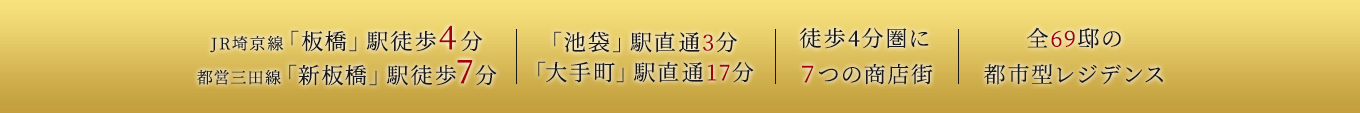
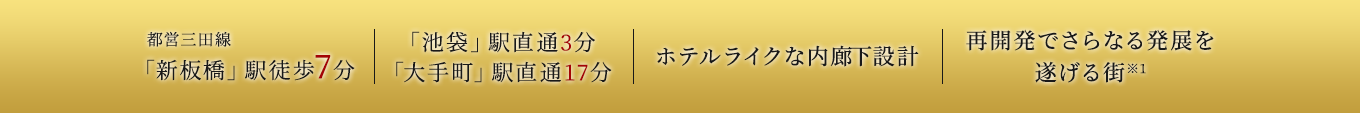
fix: USP更新・注釈追加[lp]

Changed region(s): [[0.0926, 0.2124, 0.8956, 0.7699]]

diff --git a/index.html b/index.html
@@ -945,6 +945,7 @@
                 <div class="m-footerNote">
                   <p class="m-footerNote__txt inviewFadeIn">
                     ※「モデルルーム」とは、間取りや仕様・設備などをご案内する施設全般のことで、それらの一部のみ展示している「ギャラリー」・「インフォメーションセンター」、「サンプルルーム」なども含みます。<br>
+                    ※1．板橋駅西口地区第一種市街地再開発事業（2028年度完成予定／出典：板橋区ホームページ/2024年3月現在）、板橋駅板橋口地区第一種市街地再開発事業（2027年6月竣工予定／出典：板橋区ホームページ/2024年3月現在）事業概要につきましては板橋区が発表した情報に基づいています。また、計画内容は今後変更となる場合があります。（出典：板橋区ホームページ/2024年3月現在）<br>
                     ※掲載の完成予想CGは計画段階の設計図書を基に描き起こしたもので、実際とは異なります。 雨樋、エアコン室外機、給湯器、 フェンス、 給気口 ベントキャップ等省略、 または再現されていない設備機器等がございます。<br>
                     植栽は特定の季節やご入居時期の状態を想定して描かれたものではございません。敷地周辺の電柱、標識、ガードレール等については省略しております。<br>
                     ※電車による所要時間は通勤時のもので乗り換え・待ち時間を含みます。通勤時は7:30~9:00に目的地へ到着する電車を調査したもので時間帯により異なります。（Yahoo! JAPAN 路線検索調べ※2023年11月現在） JR「板橋」駅より／「東京」駅へは、JR埼京線利用、「池袋」駅より東京メトロ丸ノ内線利用。 都営三田線「新板橋」駅より／「秋葉原」駅へは、都営三田線利用、「巣鴨」駅よりJR山手線利用。「銀座」駅へは、都営三田線利用、「日比谷」駅より東京メトロ日比谷線利用。<br>
@@ -958,31 +959,30 @@
                     ※掲載の写真は同種サンプルを撮影したもので、実際とは多少異なる場合があります。印刷の都合により若干色合いが異なる場合があります。<br>
                     ※掲載の概念図は形状等をイラスト化したもので実際とは異なる場合があります。<br>
                     <br>
-                    ■Ea1タイプ（206号室・1LDK・36.98㎡）返済例概要<br>
-                    ●販売価格：5,088万円●頭金：588万円●借入金額：4,500万円（内ボーナス支払分：670万円）●月々の返済額(年12回)：95,825円●ボーナス時加算額(年2回)：100,635円●取扱金融機関：住信SBIネット銀行●金利・種別：年0.285%(変動金利)・元利均等返済 ●返済期間：35年<br>
+■Ea1タイプ（206号室・1LDK・36.98㎡）返済例概要 <br>
+●販売金額：5,088万円   ●頭金：588万円  ●借入金額：4,500万円(内ボーナス支払分 670万円) <br>
+●月々の返済額(年12回)：98,324円 ●ボーナス時加算額(年2回)：103,289円 ●取扱金融機関：住信SBIネット銀行 <br>
+●金利プラン：変動・0.435％（弊社提携ローンにてお申し込みの場合） ●返済期間：35年 <br>
+ <br>
+■Ba1タイプ（202号室・2LDK・56.94㎡）返済例概要 <br>
+●販売金額：8,788万円   ●頭金：878万円  ●借入金額：7,910万円(内ボーナス支払分 2,460万円) <br>
+●月々の返済額(年12回)：139,914円 ●ボーナス時加算額(年2回)：379,240円 ●取扱金融機関：住信SBIネット銀行 <br>
+●金利プラン：変動・0.435％（弊社提携ローンにてお申し込みの場合） ●返済期間：35年 <br>
+※2024年11月現在の金利で算出しております。 <br>
+※実際の金利はご融資が実行された時点のものが適応となり、今後の金利変動によっては記載の金利・ <br>
+返済概要と異なる場合がございます。※上記支払い例では、繰り上げ返済などは考慮しておりません。 <br>
+ <br>
+■住宅ローン概要●取扱金融機関：住信SBIネット銀行　●融資限度額：500万円以上2億円以下（10万円単位）●利率：変動金利年0.435％（期間35年） <br>
+（借入期間に応じて適応金利が異なります。弊社提携ローンにてお申し込みの場合、基準金利3.025％より最大2.59％優遇）　●返済期間：1年以上50年以内 <br>
+●返済方法：元利均等返済・変動金利タイプ（ボーナス払い併用可）●事務取扱手数料：借入金額×2.2％（税込） <br>
+※お申込に際しては所定の審査があります。審査の結果によってはご希望に添いかねる場合がありますのでご了承ください。 <br>
+※物件引渡時から引き渡し後に月額で発生する諸費用・管理費・修繕積立金・インターネット使用料等は含まれて <br>
+おりません。所有権者様に別途負担が発生します。 <br>
+※他の支払返済のプランもございます。詳しくは、物件販売係員までお尋ねください。 <br>
                     <br>
-                    ■Ba1タイプ（202号室・2LDK・56.94㎡）返済例概要<br>
-                    ●販売価格：8,788万円●頭金：878万円●借入金額：7,910万円（内ボーナス支払分：2,450万円）●月々の返済額(年12回)：136,606円●ボーナス時加算額(年2回)：367,995円●取扱金融機関：住信SBIネット銀行●金利・種別：年 0.285%(変動金利)・元利均等返済 ●返済期間：35年<br>
-                    <br>
-                    ※返済額は概算ですので実際の金額と異なる場合があります。<br>
-                    ※管理費等諸費用は返済額に含まれておりません。<br>
-                    ※掲載の内容は2024年9月現在のものです。<br>
-                    <br>
-                    ■住宅ローン概要<br>
-                    ●取扱金融機関：住信SBIネット銀行●融資限度額：30万円以上、1億円以内(10万円単位)●利率：変動金利年0.285%(店頭金利2.875%より最大2.59%優遇)●返済期間：2年以上35年以内(1年単位)●返済方法：元利均等返済(ボーナス払い併用可)●事務取扱手数料：借入金額×2.2%(税込)<br>
-                    <br>
-                    ※お申込に際しては所定の審査があります。審査の結果によってはご希望に添いかねる場合がありますのでご了承ください。<br>
-                    ※適用される金利等は融資実行時のものとなり、表示されている金利・返済額と異なる場合があります。<br>
-                    ※他の返済プランもございます。詳しくは係員までお問合せください。<br>
-                    <br>
-                    ■先着順概要<br>
-                    ●販売戸数：2戸●販売価格：5,088万円・8,788万円●間取り：1LDK・２LDK●専有面積：36.98㎡・56.94㎡●バルコニー面積：5.36㎡・7.97㎡●管理費(月額)：5,800円・8,900円●修繕積立金(月額)：3,300円・5,100円●修繕積立基金(引渡時一括)：333,000円・512,000円●管理準備金(引渡時一括)：17,400円・26,700円 <br>
-                    ※お申込みの際は、認印と申込金10万円、直近2年分の収入を証明できる書類（確定申告の場合は直近3年分）、本人確認書類（健康保険証、運転免許証等）をご持参ください。<br>
-                    ※先着順のためご希望の住戸が販売済の際はご容赦ください。<br>
-                    <br>
-                    情報登録日 2024年9月17日<br>
+                    情報登録日 2024年11月12日<br>
                     次回情報更新日 随時<br>
-                    取引条件の有効期限 2024年9月30日
+                    取引条件の有効期限 2024年11月30日
                   </p>
                 </div>
               </div>
